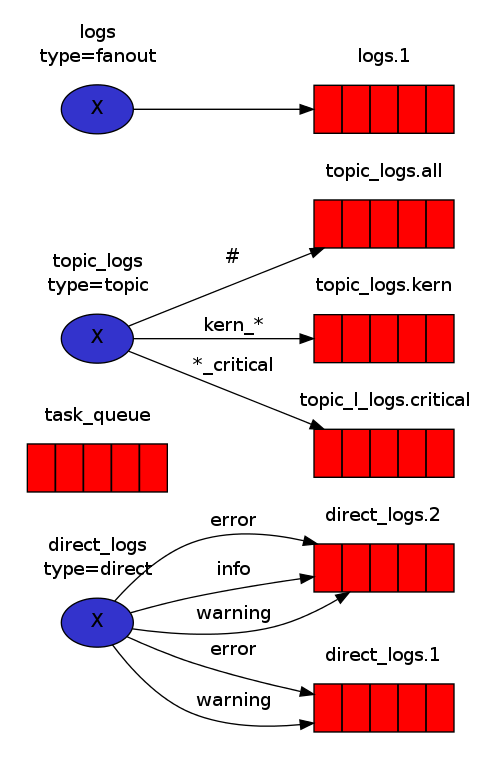
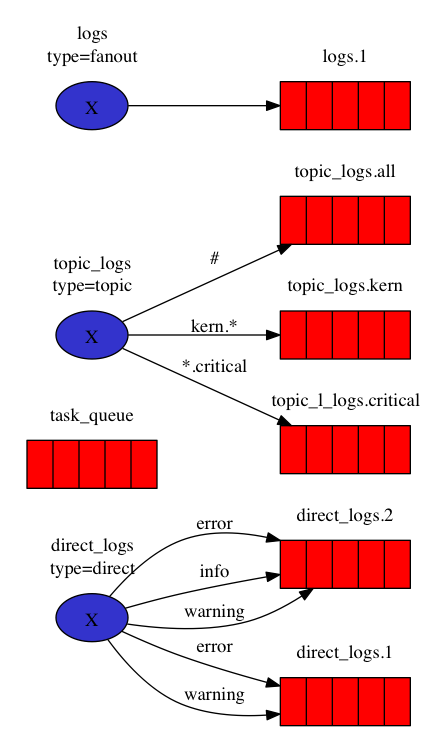
Use plain interpolation instead of pystache given simplicity of output. Also displays routing keys correctly which were previously escaped

diff --git a/rabbitmq_graphviz.py b/rabbitmq_graphviz.py
@@ -3,9 +3,6 @@ import json
 import logging
 import sys
 
-import pystache
-from pystache import render as render
-
 logging.basicConfig(level=logging.INFO)
 
 # TODO:
@@ -13,23 +10,6 @@ logging.basicConfig(level=logging.INFO)
 
 def escape_id(id):
     return id.replace('-', '').replace('.', '_')
-
-escaped_renderer = pystache.Renderer(escape=escape_id)
-
-def mk_writer(file):
-    def writer(tmpl, obj=None, escape=False):
-        if obj:
-            if escape:
-                render_f = escaped_renderer.render
-            else:
-                render_f = render
-
-            file.write(render_f(tmpl + '\n', obj))
-        else:
-            file.write(tmpl + '\n')
-
-    return writer
-
 
 def render_definitions(write, definitions):
     write('digraph {')
@@ -45,21 +25,21 @@ def render_definitions(write, definitions):
     write('}')
 
 def render_queue(write, queue):
-    write('  subgraph cluster_Q_{{name}} {', queue, escape=True)
-    write('    label="{{name}}";', queue)
+    write('  subgraph cluster_Q_%s {' % escape_id(queue['name']))
+    write('    label="%s";' % queue['name'])
     write('    color=transparent;')
-    write('    "Q_{{name}}" [label="{||||}", fillcolor="red", shape="record"];', queue, escape=True)
+    write('    "Q_%s" [label="{||||}", fillcolor="red", shape="record"];' % escape_id(queue['name']))
     write('  }\n')
 
 def render_exchange(write, exchange):
-    write('  subgraph cluster_X_{{name}} {', exchange, escape=True)
-    write('    label="{{name}}\\ntype={{type}}";', exchange)
+    write('  subgraph cluster_X_%s {' % escape_id(exchange['name']))
+    write('    label="%s\\ntype=%s";' % (exchange['name'], exchange['type']))
     write('    color=transparent;')
-    write('    "X_{{name}}" [label="X", fillcolor="#3333CC", shape="ellipse"];', exchange, escape=True)
+    write('    "X_%s" [label="X", fillcolor="#3333CC", shape="ellipse"];' % escape_id(exchange['name']))
     write('  }\n')
 
 def render_binding(write, binding):
-    write('  X_{{source}} -> Q_{{destination}} [label="{{routing_key}}"];', binding, escape=True)
+    write('  X_%s -> Q_%s [label="%s"];' % (escape_id(binding['source']), escape_id(binding['destination']), binding['routing_key']))
 
 def parse_args(): 
     parser = argparse.ArgumentParser()
@@ -75,6 +55,9 @@ if __name__ == '__main__':
     definitions = json.load(args.definitions)
     args.definitions.close()
 
-    render_definitions(mk_writer(args.outfile), definitions)
-
+    def writer(s):
+        args.outfile.write(s)
+        args.outfile.write('\n')
+        
+    render_definitions(writer, definitions)
     args.outfile.close()
